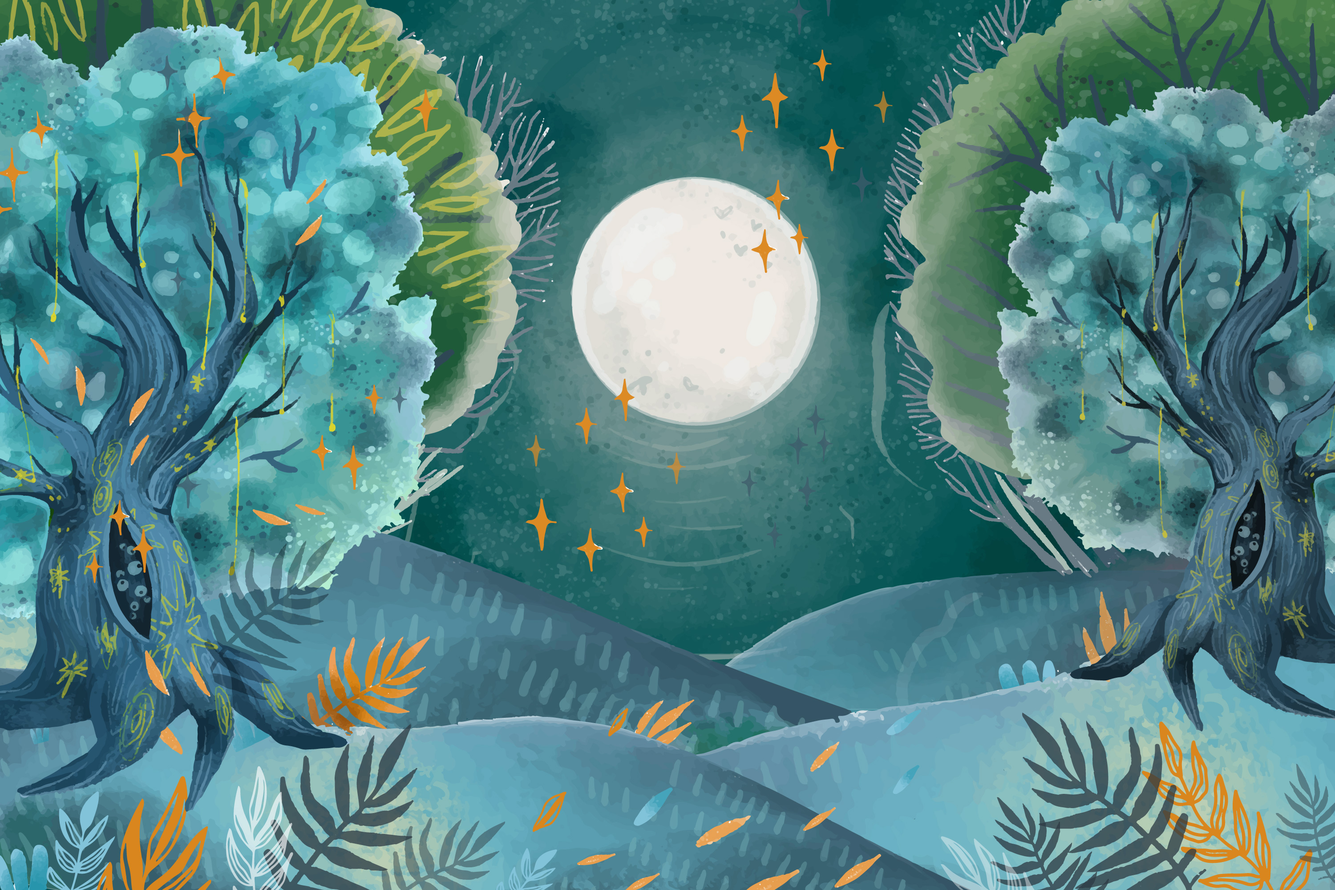
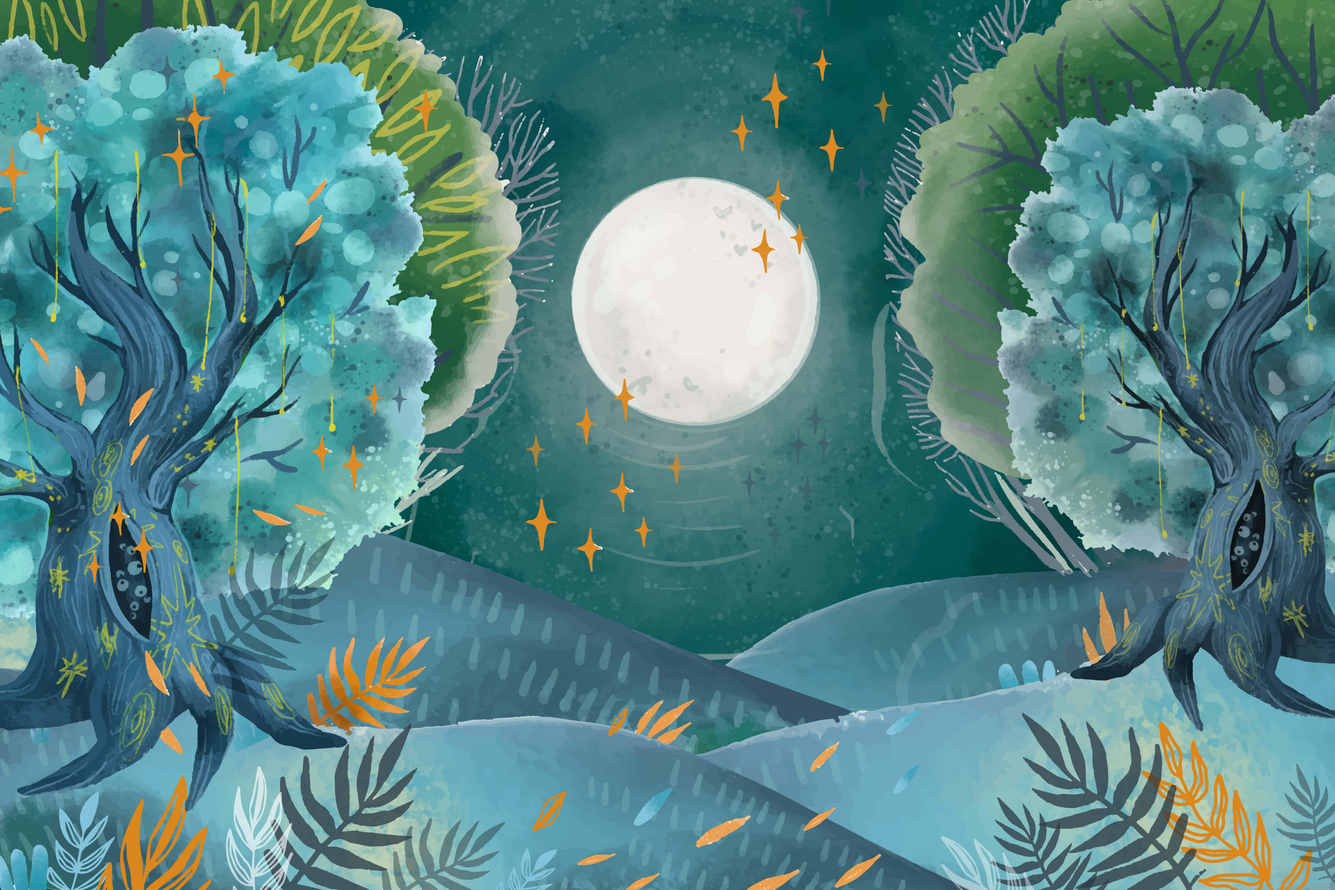
chore:compress img

diff --git a/resources/views/cards_index.blade.php b/resources/views/cards_index.blade.php
@@ -325,7 +325,7 @@
     </main>
 @endsection
 @section('script')
-    <script>
+    <script defer>
         document.querySelectorAll("[data-id]").forEach(card => {
             card.addEventListener("click", function () {
                 let btnEditTitle = this.querySelector(".btn-edit-title");
@@ -379,7 +379,7 @@
                 });
             @endif
 
-                                                                const csrfToken = document.querySelector('meta[name="csrf-token"]').content;
+        const csrfToken = document.querySelector('meta[name="csrf-token"]').content;
 
         // Handle Edit Title
         document.querySelectorAll(".edit-title").forEach(button => {
